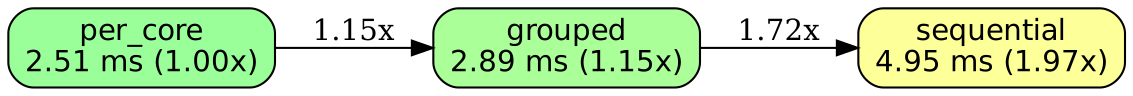
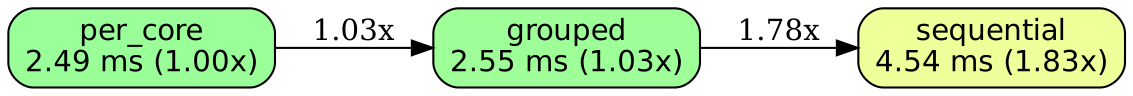
chore: regenerate generated files after merge

diff --git a/docs/BENCHES.md b/docs/BENCHES.md
@@ -2,7 +2,7 @@
   AUTO-GENERATED: DO NOT EDIT DIRECTLY
 
   Generated by: mockspace (mock)
-  Generated at: 2026-11-19T21:47:03Z
+  Generated at: 2026-11-19T22:15:46Z
   Source: mock/
   To regenerate: cargo mock
 -->
@@ -12,217 +12,217 @@ Latest measured medians per cell and machine class, from the latest run of each.
 
 ## accumulator_grouped/w1_g64_n1048576 on linux-x86_64-c4-container-intel
 
-Run `20261119T211727Z-abb93e97`.
+Run `20261119T215331Z-a2c60c57-dirty`.
 
 | variant | median | vs best |
 |---|---|---|
-| per_core | 4.79 ms | 1.00x |
-| sequential | 4.88 ms | 1.02x |
-| grouped | 5.73 ms | 1.20x |
+| per_core | 4.57 ms | 1.00x |
+| sequential | 4.76 ms | 1.04x |
+| grouped | 4.89 ms | 1.07x |
 
 ![accumulator_grouped/w1_g64_n1048576 on linux-x86_64-c4-container-intel](BENCHES.accumulator_grouped.w1_g64_n1048576.linux-x86_64-c4-container-intel.png)
 
 ## accumulator_grouped/w1_g64_n4096 on linux-x86_64-c4-container-intel
 
-Run `20261119T211727Z-abb93e97`.
+Run `20261119T215331Z-a2c60c57-dirty`.
 
 | variant | median | vs best |
 |---|---|---|
-| per_core | 28.11 us | 1.00x |
-| sequential | 30.83 us | 1.10x |
-| grouped | 35.06 us | 1.25x |
+| grouped | 29.46 us | 1.00x |
+| sequential | 29.64 us | 1.01x |
+| per_core | 31.32 us | 1.06x |
 
 ![accumulator_grouped/w1_g64_n4096 on linux-x86_64-c4-container-intel](BENCHES.accumulator_grouped.w1_g64_n4096.linux-x86_64-c4-container-intel.png)
 
 ## accumulator_grouped/w1_g64_n65536 on linux-x86_64-c4-container-intel
 
-Run `20261119T211727Z-abb93e97`.
+Run `20261119T215331Z-a2c60c57-dirty`.
 
 | variant | median | vs best |
 |---|---|---|
-| per_core | 307.55 us | 1.00x |
-| sequential | 353.94 us | 1.15x |
-| grouped | 380.58 us | 1.24x |
+| per_core | 313.11 us | 1.00x |
+| sequential | 323.28 us | 1.03x |
+| grouped | 337.76 us | 1.08x |
 
 ![accumulator_grouped/w1_g64_n65536 on linux-x86_64-c4-container-intel](BENCHES.accumulator_grouped.w1_g64_n65536.linux-x86_64-c4-container-intel.png)
 
 ## accumulator_grouped/w2_g64_n1048576 on linux-x86_64-c4-container-intel
 
-Run `20261119T211727Z-abb93e97`.
+Run `20261119T215331Z-a2c60c57-dirty`.
 
 | variant | median | vs best |
 |---|---|---|
-| per_core | 2.51 ms | 1.00x |
-| grouped | 2.89 ms | 1.15x |
-| sequential | 4.95 ms | 1.97x |
+| per_core | 2.49 ms | 1.00x |
+| grouped | 2.55 ms | 1.03x |
+| sequential | 4.54 ms | 1.83x |
 
 ![accumulator_grouped/w2_g64_n1048576 on linux-x86_64-c4-container-intel](BENCHES.accumulator_grouped.w2_g64_n1048576.linux-x86_64-c4-container-intel.png)
 
 ## accumulator_grouped/w2_g64_n4096 on linux-x86_64-c4-container-intel
 
-Run `20261119T211727Z-abb93e97`.
+Run `20261119T215331Z-a2c60c57-dirty`.
 
 | variant | median | vs best |
 |---|---|---|
-| sequential | 25.90 us | 1.00x |
-| per_core | 35.92 us | 1.39x |
-| grouped | 40.56 us | 1.57x |
+| sequential | 25.54 us | 1.00x |
+| per_core | 31.34 us | 1.23x |
+| grouped | 32.25 us | 1.26x |
 
 ![accumulator_grouped/w2_g64_n4096 on linux-x86_64-c4-container-intel](BENCHES.accumulator_grouped.w2_g64_n4096.linux-x86_64-c4-container-intel.png)
 
 ## accumulator_grouped/w2_g64_n65536 on linux-x86_64-c4-container-intel
 
-Run `20261119T211727Z-abb93e97`.
+Run `20261119T215331Z-a2c60c57-dirty`.
 
 | variant | median | vs best |
 |---|---|---|
-| per_core | 170.62 us | 1.00x |
-| grouped | 202.15 us | 1.18x |
-| sequential | 390.13 us | 2.29x |
+| per_core | 134.79 us | 1.00x |
+| grouped | 164.57 us | 1.22x |
+| sequential | 321.31 us | 2.38x |
 
 ![accumulator_grouped/w2_g64_n65536 on linux-x86_64-c4-container-intel](BENCHES.accumulator_grouped.w2_g64_n65536.linux-x86_64-c4-container-intel.png)
 
 ## accumulator_grouped/w3_g64_n1048576 on linux-x86_64-c4-container-intel
 
-Run `20261119T211727Z-abb93e97`.
+Run `20261119T215331Z-a2c60c57-dirty`.
 
 | variant | median | vs best |
 |---|---|---|
-| per_core | 1.70 ms | 1.00x |
-| grouped | 1.84 ms | 1.08x |
-| sequential | 4.67 ms | 2.74x |
+| per_core | 1.78 ms | 1.00x |
+| grouped | 1.81 ms | 1.02x |
+| sequential | 4.59 ms | 2.58x |
 
 ![accumulator_grouped/w3_g64_n1048576 on linux-x86_64-c4-container-intel](BENCHES.accumulator_grouped.w3_g64_n1048576.linux-x86_64-c4-container-intel.png)
 
 ## accumulator_grouped/w3_g64_n4096 on linux-x86_64-c4-container-intel
 
-Run `20261119T211727Z-abb93e97`.
+Run `20261119T215331Z-a2c60c57-dirty`.
 
 | variant | median | vs best |
 |---|---|---|
-| sequential | 26.28 us | 1.00x |
-| grouped | 40.65 us | 1.55x |
-| per_core | 41.85 us | 1.59x |
+| sequential | 27.93 us | 1.00x |
+| grouped | 40.75 us | 1.46x |
+| per_core | 47.54 us | 1.70x |
 
 ![accumulator_grouped/w3_g64_n4096 on linux-x86_64-c4-container-intel](BENCHES.accumulator_grouped.w3_g64_n4096.linux-x86_64-c4-container-intel.png)
 
 ## accumulator_grouped/w3_g64_n65536 on linux-x86_64-c4-container-intel
 
-Run `20261119T211727Z-abb93e97`.
+Run `20261119T215331Z-a2c60c57-dirty`.
 
 | variant | median | vs best |
 |---|---|---|
-| per_core | 110.84 us | 1.00x |
-| grouped | 132.55 us | 1.20x |
-| sequential | 299.27 us | 2.70x |
+| per_core | 111.92 us | 1.00x |
+| grouped | 125.62 us | 1.12x |
+| sequential | 315.19 us | 2.82x |
 
 ![accumulator_grouped/w3_g64_n65536 on linux-x86_64-c4-container-intel](BENCHES.accumulator_grouped.w3_g64_n65536.linux-x86_64-c4-container-intel.png)
 
 ## accumulator_grouped/w4_g1024_n1048576 on linux-x86_64-c4-container-intel
 
-Run `20261119T211727Z-abb93e97`.
+Run `20261119T215331Z-a2c60c57-dirty`.
 
 | variant | median | vs best |
 |---|---|---|
-| grouped | 2.20 ms | 1.00x |
-| per_core | 2.24 ms | 1.02x |
-| sequential | 4.68 ms | 2.13x |
+| per_core | 2.28 ms | 1.00x |
+| grouped | 2.28 ms | 1.00x |
+| sequential | 4.69 ms | 2.06x |
 
 ![accumulator_grouped/w4_g1024_n1048576 on linux-x86_64-c4-container-intel](BENCHES.accumulator_grouped.w4_g1024_n1048576.linux-x86_64-c4-container-intel.png)
 
 ## accumulator_grouped/w4_g1024_n4096 on linux-x86_64-c4-container-intel
 
-Run `20261119T211727Z-abb93e97`.
+Run `20261119T215331Z-a2c60c57-dirty`.
 
 | variant | median | vs best |
 |---|---|---|
-| sequential | 27.85 us | 1.00x |
-| grouped | 42.93 us | 1.54x |
-| per_core | 43.64 us | 1.57x |
+| sequential | 27.31 us | 1.00x |
+| grouped | 40.96 us | 1.50x |
+| per_core | 48.33 us | 1.77x |
 
 ![accumulator_grouped/w4_g1024_n4096 on linux-x86_64-c4-container-intel](BENCHES.accumulator_grouped.w4_g1024_n4096.linux-x86_64-c4-container-intel.png)
 
 ## accumulator_grouped/w4_g1024_n65536 on linux-x86_64-c4-container-intel
 
-Run `20261119T211727Z-abb93e97`.
+Run `20261119T215331Z-a2c60c57-dirty`.
 
 | variant | median | vs best |
 |---|---|---|
-| grouped | 137.89 us | 1.00x |
-| per_core | 180.33 us | 1.31x |
-| sequential | 305.15 us | 2.21x |
+| grouped | 131.57 us | 1.00x |
+| per_core | 143.63 us | 1.09x |
+| sequential | 289.81 us | 2.20x |
 
 ![accumulator_grouped/w4_g1024_n65536 on linux-x86_64-c4-container-intel](BENCHES.accumulator_grouped.w4_g1024_n65536.linux-x86_64-c4-container-intel.png)
 
 ## accumulator_grouped/w4_g64_n1048576 on linux-x86_64-c4-container-intel
 
-Run `20261119T211727Z-abb93e97`.
+Run `20261119T215331Z-a2c60c57-dirty`.
 
 | variant | median | vs best |
 |---|---|---|
-| per_core | 2.31 ms | 1.00x |
-| grouped | 2.59 ms | 1.12x |
-| sequential | 4.87 ms | 2.10x |
+| per_core | 2.34 ms | 1.00x |
+| grouped | 2.56 ms | 1.09x |
+| sequential | 4.97 ms | 2.13x |
 
 ![accumulator_grouped/w4_g64_n1048576 on linux-x86_64-c4-container-intel](BENCHES.accumulator_grouped.w4_g64_n1048576.linux-x86_64-c4-container-intel.png)
 
 ## accumulator_grouped/w4_g64_n4096 on linux-x86_64-c4-container-intel
 
-Run `20261119T211727Z-abb93e97`.
+Run `20261119T215331Z-a2c60c57-dirty`.
 
 | variant | median | vs best |
 |---|---|---|
-| sequential | 24.16 us | 1.00x |
-| per_core | 44.78 us | 1.85x |
-| grouped | 46.93 us | 1.94x |
+| sequential | 29.60 us | 1.00x |
+| per_core | 41.21 us | 1.39x |
+| grouped | 46.35 us | 1.57x |
 
 ![accumulator_grouped/w4_g64_n4096 on linux-x86_64-c4-container-intel](BENCHES.accumulator_grouped.w4_g64_n4096.linux-x86_64-c4-container-intel.png)
 
 ## accumulator_grouped/w4_g64_n65536 on linux-x86_64-c4-container-intel
 
-Run `20261119T211727Z-abb93e97`.
+Run `20261119T215331Z-a2c60c57-dirty`.
 
 | variant | median | vs best |
 |---|---|---|
-| per_core | 152.07 us | 1.00x |
-| grouped | 161.69 us | 1.06x |
-| sequential | 299.36 us | 1.97x |
+| per_core | 138.29 us | 1.00x |
+| grouped | 166.92 us | 1.21x |
+| sequential | 296.03 us | 2.14x |
 
 ![accumulator_grouped/w4_g64_n65536 on linux-x86_64-c4-container-intel](BENCHES.accumulator_grouped.w4_g64_n65536.linux-x86_64-c4-container-intel.png)
 
 ## accumulator_grouped/w4_g8_n1048576 on linux-x86_64-c4-container-intel
 
-Run `20261119T211727Z-abb93e97`.
+Run `20261119T215331Z-a2c60c57-dirty`.
 
 | variant | median | vs best |
 |---|---|---|
-| per_core | 2.38 ms | 1.00x |
-| grouped | 3.07 ms | 1.29x |
-| sequential | 4.84 ms | 2.03x |
+| per_core | 2.45 ms | 1.00x |
+| grouped | 3.17 ms | 1.30x |
+| sequential | 4.76 ms | 1.95x |
 
 ![accumulator_grouped/w4_g8_n1048576 on linux-x86_64-c4-container-intel](BENCHES.accumulator_grouped.w4_g8_n1048576.linux-x86_64-c4-container-intel.png)
 
 ## accumulator_grouped/w4_g8_n4096 on linux-x86_64-c4-container-intel
 
-Run `20261119T211727Z-abb93e97`.
+Run `20261119T215331Z-a2c60c57-dirty`.
 
 | variant | median | vs best |
 |---|---|---|
-| sequential | 31.46 us | 1.00x |
-| grouped | 45.46 us | 1.44x |
-| per_core | 48.63 us | 1.55x |
+| sequential | 26.10 us | 1.00x |
+| per_core | 44.67 us | 1.71x |
+| grouped | 53.77 us | 2.06x |
 
 ![accumulator_grouped/w4_g8_n4096 on linux-x86_64-c4-container-intel](BENCHES.accumulator_grouped.w4_g8_n4096.linux-x86_64-c4-container-intel.png)
 
 ## accumulator_grouped/w4_g8_n65536 on linux-x86_64-c4-container-intel
 
-Run `20261119T211727Z-abb93e97`.
+Run `20261119T215331Z-a2c60c57-dirty`.
 
 | variant | median | vs best |
 |---|---|---|
-| per_core | 132.25 us | 1.00x |
-| grouped | 168.34 us | 1.27x |
-| sequential | 307.79 us | 2.33x |
+| per_core | 171.78 us | 1.00x |
+| grouped | 209.94 us | 1.22x |
+| sequential | 346.37 us | 2.02x |
 
 ![accumulator_grouped/w4_g8_n65536 on linux-x86_64-c4-container-intel](BENCHES.accumulator_grouped.w4_g8_n65536.linux-x86_64-c4-container-intel.png)
 
